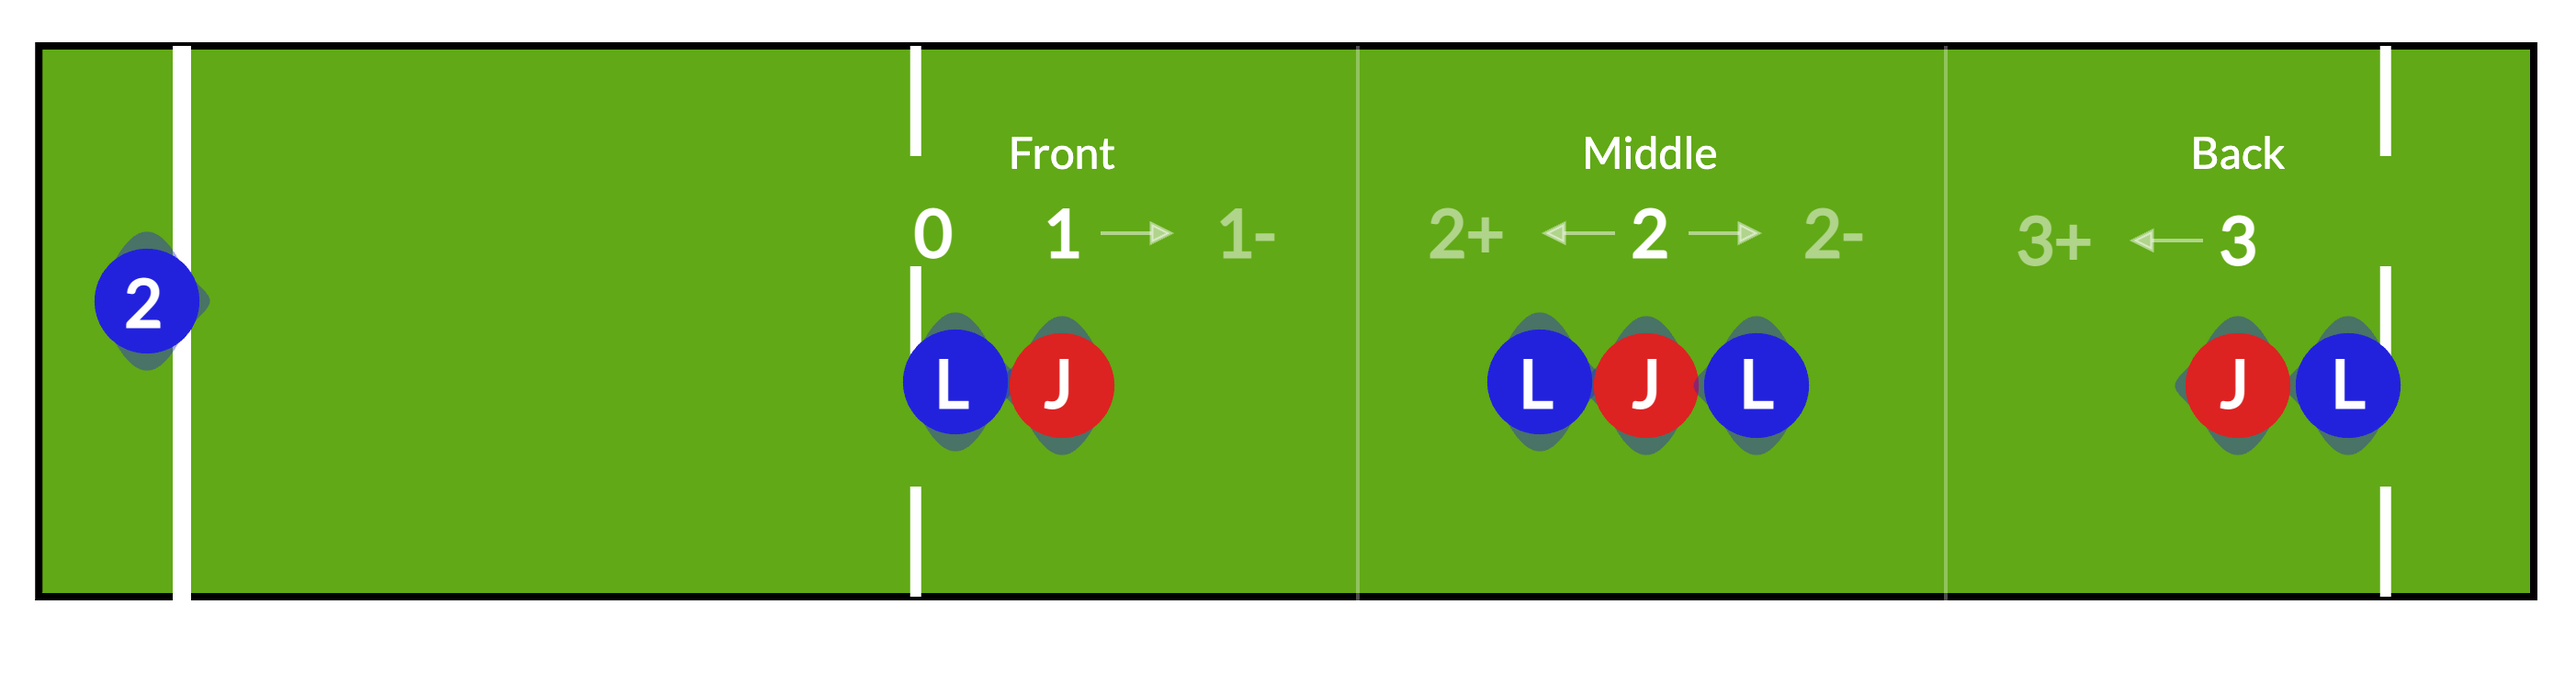
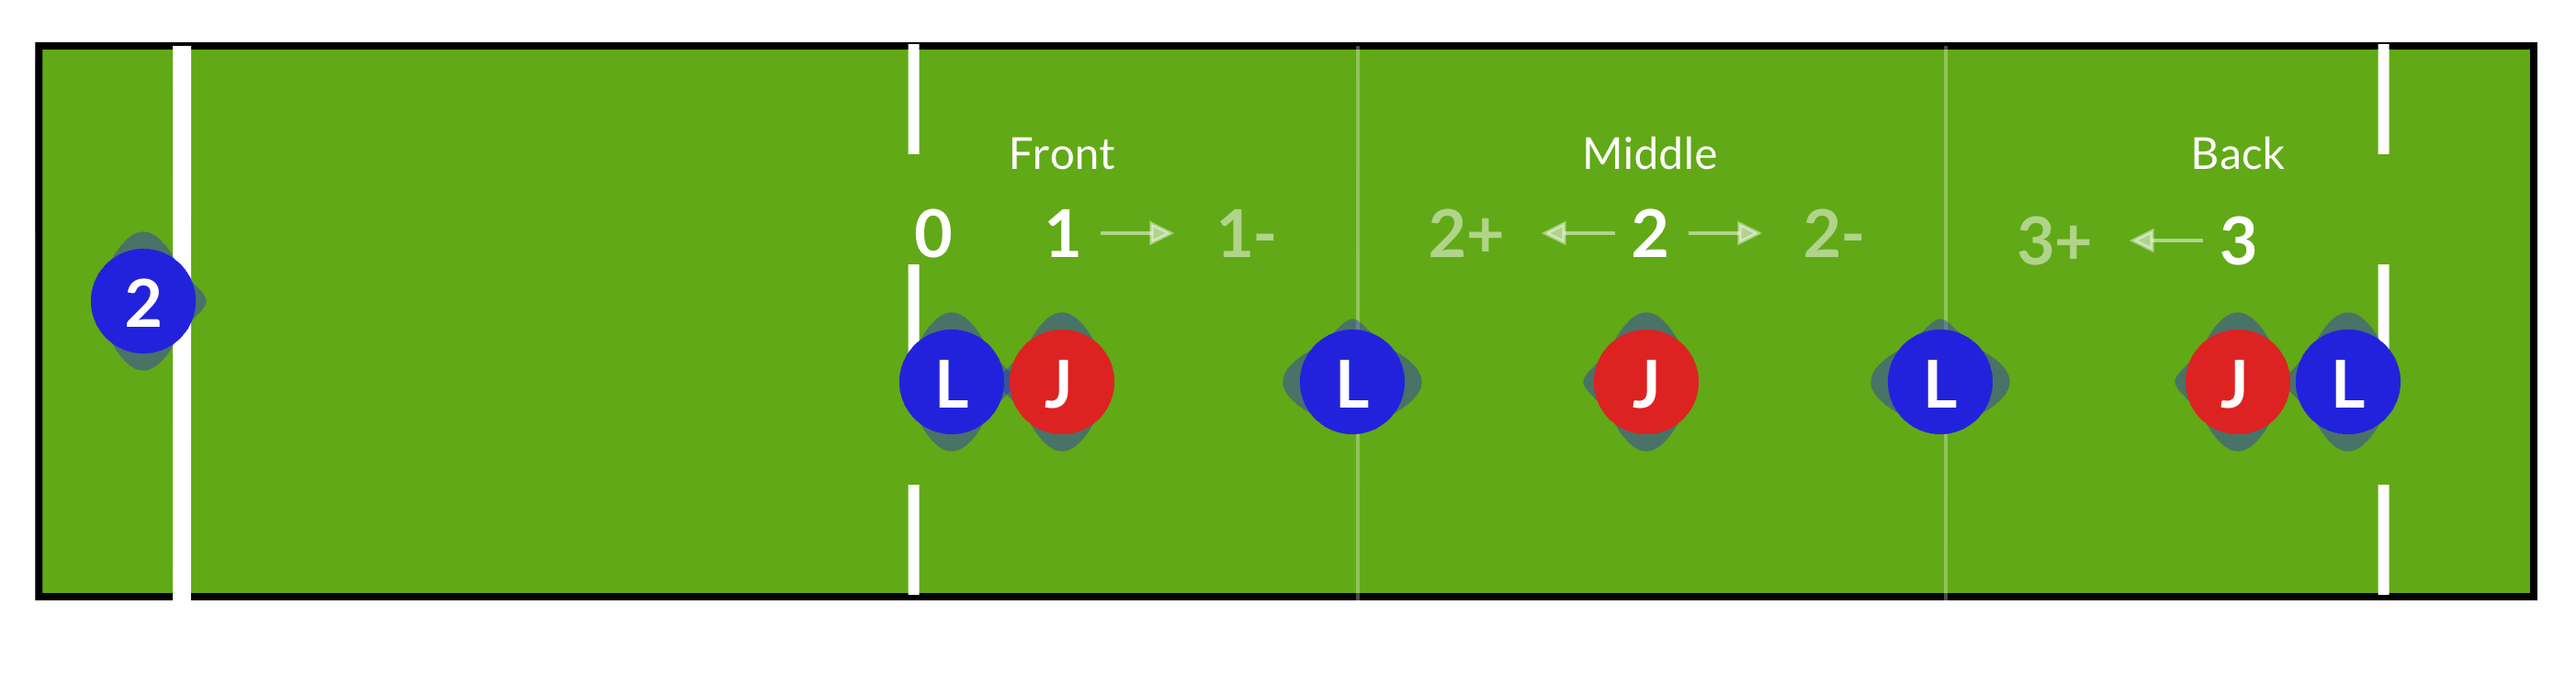
lineout attack

diff --git a/pages/set-piece/lineout/attack.md b/pages/set-piece/lineout/attack.md
@@ -17,42 +17,67 @@ nav_order: 311
 
 This section covers our setup, how we call the throw and any movements in the lineout, and then how we play the ball away from the lineout.
 
-# Formations &nbsp; <span class="badge-new">NEW</span>
+# Overview
 
-<img src="{{ '/assets/images/lineout/formations.png' | relative_url }}" style="width: 100%; height: auto;"/>
+Timing is crucial to everything we do in our attacking lineout. We huddle as a group to communicate the call as soon as possible, and then everyone gets into position before the hooker is ready and the last man (the "trigger") joins the line.
 
-We run a 5-man lineout by default, but also 7-man and 4-man lineout variations. Each of these can be set up with many different formations (e.g. 1-3-2-1 or 1-1-3) so we need to keep things simple, but flexible.
-
-| :----------- | :---------------- |
-| **Squeeze** | A pre-set middle pod[^1] is ready for a quick "Bang" or to draw in the defence before moving. _**Default setup**_ |
-| **Spread** | Evenly spaced, keeping the defence guessing so we can attack weak spots or win with speed. |
-| **Split** | Pods at front and back create space in the middle for movement or quick delivery. |
-
-[^1]: Or back pod in the case of the 4-man version.
-
----
-
-# Calls &nbsp; <span class="badge-new">NEW</span>
-
-We divide the lineout into 3 zones (**1**, **2**, **3**), each with a jumper, or **0** for the very front with no jump (i.e. "Matlow").
-
-<img src="{{ '/assets/images/lineout/target-with-steps.png' | relative_url }}" style="width: 100%; height: auto;"/>
-
-For more complex movements, we can chain together multiple calls -- e.g. **1 2** (dummy jump at 1, before jumping at 2). The specific movements will depend on the initial formation and can be workshopped in training. Once the basic calls are mastered, we can add further modifiers to include more complex movements.
-
-## Calling process
-
-{: .no_toc }
+<img src="{{ '/assets/images/lineout/callingprocess.png' | relative_url }}" style="width: 100%; height: auto;"/>
 
 <div style="float: left; width: 70%; margin-right: 10px;">
     <img src="{{ '/assets/images/lineout/call-process.png' | relative_url }}" style="width: 100%; height: auto;"/>
 </div>
 
-In a huddle, the caller gives the formation, call, and play. Once in position, they trigger the move with **"Set"**.
+In a huddle, the caller gives the formation, call, and play. Unless the trigger/caller say otherwise, this is the plan that will be executed immediately the trigger joins the line.
 
-Every lineout includes a **"Bang"** option — a quick throw to a pre-set pod (middle or back), if needed.
+Every lineout includes a **"Bang"** option — a quick throw to a pre-set pod (middle or front).
 
-If **"Bang"** isn’t viable, the caller can say **"Cancel"**, give a new call and then proceed as normal.
+If neither option is viable, the caller can say **"Cancel"**, give a new call and then proceed as normal.
+
+If something goes wrong during the lineout, someone at the front should always face the hooker offering a bailout option on the 5m line.
+
+# Formations &nbsp; <span class="badge-new">NEW</span>
+
+We run a 5-man lineout by default, but also 7-man and 4-man lineout variations. Each of these can be set up with many different formations (e.g. 1-3-2-1 or 1-1-3) so we need to keep things simple, but flexible.
+
+<div style="float: right; width: 75%; margin-left: 10px;">
+    <img src="{{ '/assets/images/lineout/squeeze.png' | relative_url }}" style="width: 100%; height: auto;"/>
+</div>
+
+## Squeeze
+
+Our default formation is the **Squeeze**, where a pre-set middle pod is ready for a quick "Bang" or to focus the defence on the middle before moving.
+
+<br style="clear: both;" />
+
+<div style="float: right; width: 75%; margin-left: 10px;">
+    <img src="{{ '/assets/images/lineout/split.png' | relative_url }}" style="width: 100%; height: auto;"/>
+</div>
+    
+## Split
+
+The **Split** formation changes the picture for the defence, instead leaving lots of space in the middle to move into, giving us the easy out of a "Bang" at the front.
+
+<br style="clear: both;" />
+
+<div style="float: right; width: 75%; margin-left: 10px;">
+    <img src="{{ '/assets/images/lineout/spread.png' | relative_url }}" style="width: 100%; height: auto;"/>
+</div>
+
+## Spread
+
+The **Spread** formation changes the picture again, giving the opposition no indication of where to defend, allowing us to exploit weak spots or win with speed.
+
+
+---
+
+# Calls &nbsp; <span class="badge-new">NEW</span>
+
+We divide the lineout into 3 zones (**1**, **2**, **3**), or **0** for the very front with no jump (i.e. "Matlow").
+
+<img src="{{ '/assets/images/lineout/target-with-steps.png' | relative_url }}" style="width: 100%; height: auto;"/>
+
+For more complex movements, we can chain together multiple calls -- e.g. **1 2** (dummy jump at 1, before jumping at 2). The specific movements will depend on the initial formation and can be workshopped in training. Once the basic calls are mastered, we can add further modifiers to include more complex movements.
+
 
 <!-- ## Call examples
 
